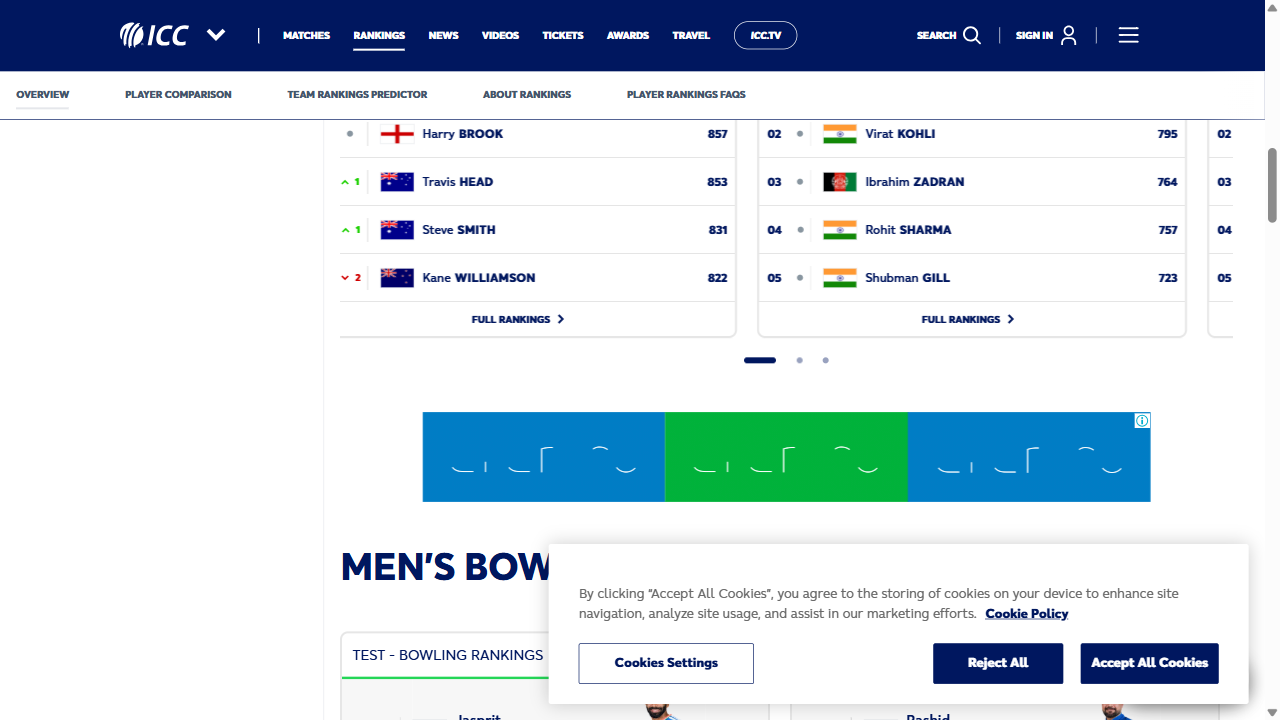
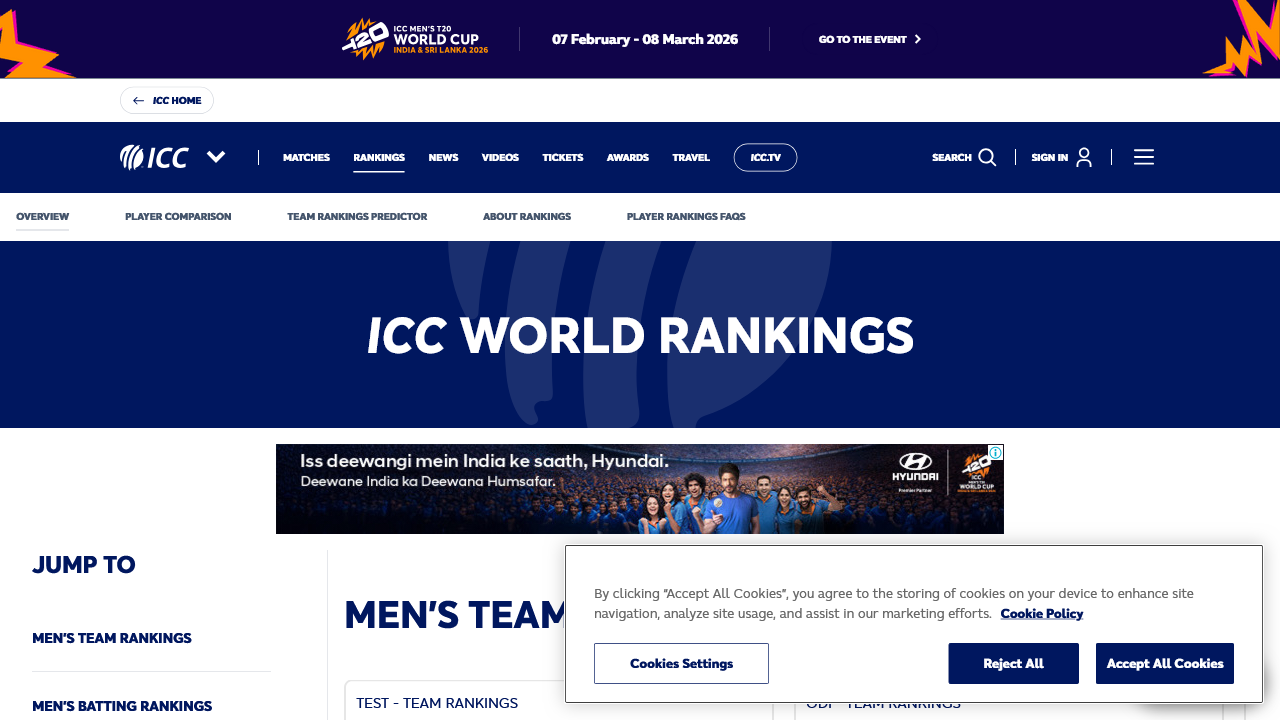
task1 uploaded

diff --git a/assessment(06-03-2026)/tests/day12task2.spec.ts b/assessment(06-03-2026)/tests/day12task2.spec.ts
@@ -2,8 +2,7 @@ import {test} from "@playwright/test"
 
 test("icc_ranking",async({page})=>{
     await page.goto("https://www.icc-cricket.com/rankings");
-    await page.locator('//button[@class="mx-2 w-1.5 h-1.5 bg-dark-background opacity-40 rounded-full transition-width delay-150 duration-500 ease-in-out"]').nth(2).click();
     let rating = await page.locator('(//section[@id="mens-batting-rankings"]/descendant::div[@class="swiper-slide max-w-[328px] lg:max-w-[450px] mr-3 lg:mr-0 last:mr-0 swiper-slide-next"]/descendant::span[@class="text-xs leading-140 font-extrabold uppercase text-blue-950"])[4]').textContent();
-    console.log("ishan kishan ",rating)
+    console.log("Rohit Sharma's ODI Ranking ",rating)
     await page.screenshot({path:'screenshot/task2.png'});
 })

diff --git a/assessment(06-03-2026)/playwright.config.js b/assessment(06-03-2026)/playwright.config.js
@@ -40,15 +40,15 @@ export default defineConfig({
       use: { ...devices['Desktop Chrome'] },
     },
 
-    // {
-    //   name: 'firefox',
-    //   use: { ...devices['Desktop Firefox'] },
-    // },
+    {
+      name: 'firefox',
+      use: { ...devices['Desktop Firefox'] },
+    },
 
-    // {
-    //   name: 'webkit',
-    //   use: { ...devices['Desktop Safari'] },
-    // },
+    {
+      name: 'webkit',
+      use: { ...devices['Desktop Safari'] },
+    },
 
     /* Test against mobile viewports. */
     // {
